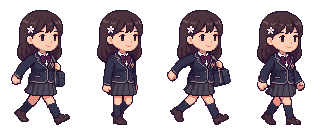
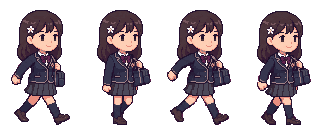
평일 판정 도트 연출: 여주 도트가 일정을 하다가 판정에 반응
- 칸마다 "하는 중"(약 0.4초, 그 일정 분류 동작) → 판정(대성공 · 성공 · 실수 반응)
- content/dot.ts 한 곳에서 동작별 속도·순서·대신할 동작 설정, ui/common/DotSprite.tsx (정수 배율, 픽셀 선명)
- 동작 그림이 아직 없으면 서 있는 한 장 + 효과로 흉내 (폴짝 · 끄덕 · 털썩 · 들썩 · 꾸벅) — dot/heroine/{동작}.png 만 넣으면 바뀐다
- 걷기 도트 가방 수정: 2 · 3 · 4번 모두 끈 잡은 손과 가방이 같은 자리에
- 이미지 인계서 ⑥ 코드 연결 갱신

Claude-Session: https://claude.ai/code/session_01GXWx7cv535L1kF6yCxY4sq

Changed region(s): [[0.9062, 0.4375, 0.9688, 0.75], [0.4062, 0.4375, 0.4688, 0.6875]]

diff --git a/src/ui/common/DotSprite.tsx b/src/ui/common/DotSprite.tsx
@@ -1,0 +1,84 @@
+/* =========================================================
+   도트 스프라이트 — 시트(칸 80×128 가로 이어 붙임)를 프레임 순서대로 넘긴다
+   - 그림이 없는 동작은 content/dot.ts 의 fallback 동작 + 코드 효과(폴짝·끄덕·털썩)로 대신
+   - 흐려지지 않게: 화면 점 기준 정수 배율로만 키운다 (height 는 원하는 대략의 키)
+   ========================================================= */
+import { useEffect, useMemo, useState } from 'react';
+import { DOT_ANIMS, DOT_CELL, type DotAnim } from '@/content/dot';
+import { dotImage } from '@/engine/assets';
+
+const reduced = () => typeof matchMedia !== 'undefined' && matchMedia('(prefers-reduced-motion: reduce)').matches;
+const sheetFrames: Record<string, number> = {};
+
+/** 그림이 있는 동작을 찾는다 — 없으면 대신할 동작 (효과는 처음 고른 동작 것) */
+export function resolveDot(char: string, anim: DotAnim): { anim: DotAnim; url: string; substitute: boolean } | null {
+  const seen = new Set<DotAnim>();
+  const walk = (a: DotAnim, sub: boolean): ReturnType<typeof resolveDot> => {
+    if (seen.has(a)) return null;
+    seen.add(a);
+    const url = dotImage(char, a);
+    if (url) return { anim: a, url, substitute: sub };
+    for (const f of DOT_ANIMS[a].fallback) { const r = walk(f, true); if (r) return r; }
+    return null;
+  };
+  return walk(anim, false);
+}
+
+interface Props {
+  char?: string;
+  anim: DotAnim;
+  /** 원하는 대략의 키 (CSS px) — 정수 배율로 맞춘다 */
+  height: number;
+  className?: string;
+}
+
+export function DotSprite({ char = 'heroine', anim, height, className }: Props) {
+  const r = useMemo(() => resolveDot(char, anim), [char, anim]);
+  const want = DOT_ANIMS[anim];
+  // 대신 쓰는 그림이면 서 있는 한 장 + 효과로 흉내 낸다 (효과가 없는 동작만 대신 그림을 그대로 움직인다 — 운동 → 제자리 걷기)
+  const play = r ? DOT_ANIMS[r.anim] : want;
+  const still = !!r?.substitute && !!want.effect;
+  const [frames, setFrames] = useState(() => (r ? sheetFrames[r.url] ?? 1 : 1));
+  const [i, setI] = useState(0);
+
+  useEffect(() => {
+    if (!r) return;
+    if (sheetFrames[r.url]) { setFrames(sheetFrames[r.url]); return; }
+    const img = new Image();
+    img.onload = () => { sheetFrames[r.url] = Math.max(1, Math.round(img.naturalWidth / DOT_CELL.w)); setFrames(sheetFrames[r.url]); };
+    img.src = r.url;
+  }, [r]);
+
+  const order = play.order ?? Array.from({ length: frames }, (_, k) => k);
+  useEffect(() => {
+    setI(0);
+    if (!r || still || reduced() || order.length < 2) return;
+    let k = 0;
+    const t = setInterval(() => {
+      k++;
+      if (!want.loop && k >= order.length) { clearInterval(t); return; }
+      setI(k % order.length);
+    }, 1000 / play.fps);
+    return () => clearInterval(t);
+  }, [r, still, frames, anim]); // eslint-disable-line react-hooks/exhaustive-deps
+
+  if (!r) return null;
+  // 화면 점(device pixel) 기준 정수 배율
+  const dpr = typeof window !== 'undefined' ? Math.max(1, window.devicePixelRatio || 1) : 1;
+  const s = Math.max(1, Math.round((height * dpr) / DOT_CELL.h)) / dpr;
+  const frame = still ? (DOT_ANIMS[r.anim].order?.[0] ?? 0) : order[Math.min(i, order.length - 1)] ?? 0;
+  const fx = r.substitute && !reduced() ? want.effect : undefined;
+  return (
+    <div
+      className={`dot${fx ? ` dot-${fx}` : ''}${className ? ` ${className}` : ''}`}
+      key={anim}
+      aria-hidden
+      style={{
+        width: DOT_CELL.w * s, height: DOT_CELL.h * s,
+        backgroundImage: `url("${r.url}")`,
+        backgroundSize: `${frames * DOT_CELL.w * s}px ${DOT_CELL.h * s}px`,
+        backgroundPosition: `${-frame * DOT_CELL.w * s}px 0`,
+      }}
+    />
+  );
+}

diff --git a/src/ui/overlays/LiveWeek.tsx b/src/ui/overlays/LiveWeek.tsx
@@ -2,11 +2,23 @@
    평일 실시간 진행 — 위: 오늘 장면 (그림 + 움직임 + 판정 도장 + 오른 것)
                      아래: 월~금 띠 (칸마다 결과 · 사건 아이콘)
    그림: src/assets/images/schedule/{일정id}.jpg · {id}_great.jpg · {id}_fail.jpg (없으면 갈래 색과 아이콘)
+   도트: 여주가 그 일정을 하다가(하는 중) 판정에 반응 — content/dot.ts · ui/common/DotSprite.tsx
    ========================================================= */
 import { useUI, ui, type LiveSlot, type LiveWeek as Week } from '@/store/ui';
 import { scheduleShot } from '@/engine/assets';
 import { CAT_LOOK, type Cat } from '@/content/rolls';
 import { SLOT_LABEL } from '@/engine/timetable';
+import type { DotAnim } from '@/content/dot';
+import { DotSprite, resolveDot } from '../common/DotSprite';
+
+/** 지금 칸에서 도트가 할 동작 — 하는 중이면 그 일정 분류, 판정이 나오면 반응 */
+function dotAnim(s: LiveSlot, school: string, slot: number): DotAnim {
+  if (s.state === 'wait') return slot === 0 && (school === 'doze' || school === 'sleep') ? 'doze' : ((s.cat as Cat) ?? 'study');
+  if (s.state === 'great') return 'great';
+  if (s.state === 'ok') return 'ok';
+  if (s.state === 'fail' || s.state === 'collapse' || s.state === 'broke') return 'fail';
+  return 'idle';
+}
 
 const STAMP: Record<string, [string, string] | undefined> = {
   great: ['대성공!', 'great'], ok: ['성공', 'ok'], fail: ['실수…', 'fail'],
@@ -34,8 +46,10 @@ function Today({ w }: { w: Week }) {
   const img = s.id ? scheduleShot(s.id, s.state) : undefined;
   const stamp = STAMP[s.state];
   const key = `${cur.day}-${cur.slot}-${s.state}`;
+  const anim = dotAnim(s, day.school, cur.slot);
+  const dot = !!resolveDot('heroine', anim);
   return (
-    <div className={`lw-today st-${s.state}`}>
+    <div className={`lw-today st-${s.state}${dot ? ' has-dot' : ''}`}>
       <div key={key} className={`lw-shot${img ? '' : ' none'}`} style={img ? { backgroundImage: `url("${img}")` } : { background: `linear-gradient(135deg, ${look.from}, ${look.to})` }}>
         {!img && <span className="lw-icon">{look.icon}</span>}
       </div>
@@ -44,6 +58,7 @@ function Today({ w }: { w: Week }) {
           <i key={i} style={{ left: `${8 + ((i * 37) % 84)}%`, animationDelay: `${(i * 0.23) % 1.4}s` }}>{s.state === 'great' ? '✦' : look.fx}</i>
         ))}
       </div>
+      {dot && <div className="lw-dot"><DotSprite key={key} anim={anim} height={118} /></div>}
       <div className="lw-cap">
         <span>{day.label}요일 · {SLOT_LABEL[cur.slot as 0 | 1]}{s.club ? ' · 동아리' : ''}{s.immerse ? ' · 몰입' : ''}</span>
         <b>{s.name || '빈칸'}</b>

diff --git a/src/content/dot.ts b/src/content/dot.ts
@@ -1,0 +1,43 @@
+/* =========================================================
+   도트 애니메이션 — 여주 SD 도트 (평일 판정 연출)
+   그림: src/assets/images/dot/{인물}/{동작}.png — 칸 80×128 을 가로로 이어 붙인 시트 (프레임 수 = 너비 ÷ 80)
+   만드는 법: docs/art/IMAGE_WORK.md ⑥ · scripts/dot_clean.py
+   그림이 없는 동작은 대신할 동작 + 코드 효과(폴짝·끄덕·털썩)로 흉내 낸다 → 그림을 넣으면 코드 수정 없이 바뀐다
+   ========================================================= */
+import type { Cat } from './rolls';
+
+/** 시트 한 칸 크기 (도트) */
+export const DOT_CELL = { w: 80, h: 128 } as const;
+
+export type DotAnim = 'walk' | 'idle' | Cat | 'great' | 'ok' | 'fail' | 'doze';
+
+export interface DotAnimDef {
+  /** 초당 프레임 */
+  fps: number;
+  /** 프레임 순서 (0부터). 없으면 0,1,2,… */
+  order?: number[];
+  /** 반복하나 (판정 반응은 한 번 하고 마지막 프레임에서 멈춘다) */
+  loop: boolean;
+  /** 그림이 없을 때 대신 쓸 동작 (차례로 찾는다) */
+  fallback: DotAnim[];
+  /** 대신 쓸 때 덧입히는 움직임 (CSS: dot-hop 폴짝 · dot-nod 끄덕 · dot-slump 털썩 · dot-bob 들썩 · dot-doze 꾸벅) */
+  effect?: 'hop' | 'nod' | 'slump' | 'bob' | 'doze';
+}
+
+export const DOT_ANIMS: Record<DotAnim, DotAnimDef> = {
+  // 걷기 — 2 → 4 → 3 → 4 (1번은 쓰지 않음, 사용자가 고른 순서)
+  walk:   { fps: 7, order: [1, 3, 2, 3], loop: true, fallback: [] },
+  idle:   { fps: 3, loop: true, fallback: ['walk'], effect: 'bob' },
+  // 일정 분류별 — 하는 동안 반복 (src/content/rolls.ts 의 cat)
+  study:  { fps: 4, loop: true, fallback: ['idle'], effect: 'bob' },
+  art:    { fps: 6, loop: true, fallback: ['idle'], effect: 'bob' },
+  work:   { fps: 5, loop: true, fallback: ['idle'], effect: 'bob' },
+  body:   { fps: 8, loop: true, fallback: ['walk'] },   // 그림이 없으면 제자리 걷기로
+  rest:   { fps: 2, loop: true, fallback: ['idle'], effect: 'doze' },
+  social: { fps: 5, loop: true, fallback: ['idle'], effect: 'bob' },
+  doze:   { fps: 2, loop: true, fallback: ['rest', 'idle'], effect: 'doze' },
+  // 판정 반응 — 한 번
+  great:  { fps: 10, loop: false, fallback: ['idle'], effect: 'hop' },
+  ok:     { fps: 6, loop: false, fallback: ['idle'], effect: 'nod' },
+  fail:   { fps: 7, loop: false, fallback: ['idle'], effect: 'slump' },
+};

diff --git a/src/styles/screens.css b/src/styles/screens.css
@@ -599,3 +599,22 @@ code { font-size: 11px; padding: 1px 4px; border-radius: 4px; background: var(--
 .inv-where button.on { background: #e0607e; border-color: #e0607e; color: #fff; }
 .inv-where button i { font-style: normal; color: #e0a03c; margin-right: 2px; }
 .inv-where button.on i { color: #fff; }
+
+/* ---------- 도트 스프라이트 (ui/common/DotSprite.tsx) ---------- */
+.dot { background-repeat: no-repeat; image-rendering: pixelated; image-rendering: crisp-edges; transform-origin: 50% 100%; pointer-events: none; }
+/* 그림이 아직 없는 반응을 흉내 내는 효과 */
+.dot-hop { animation: dothop .5s cubic-bezier(.3, .7, .4, 1) 2; }
+.dot-nod { animation: dotnod .45s ease-in-out 2; }
+.dot-slump { animation: dotslump .6s ease-out both; }
+.dot-bob { animation: dotbob .7s ease-in-out infinite; }
+.dot-doze { animation: dotdoze 1.6s ease-in-out infinite; }
+@keyframes dothop { 0%, 100% { transform: translateY(0) scale(1, 1); } 15% { transform: translateY(0) scale(1.06, .92); } 50% { transform: translateY(-18%) scale(.96, 1.05); } 85% { transform: translateY(0) scale(1.05, .94); } }
+@keyframes dotnod { 50% { transform: translateY(3%) scale(1, .97); } }
+@keyframes dotslump { 0% { transform: none; filter: none; } 40% { transform: translateY(2%) rotate(-4deg) scale(1.02, .95); } 100% { transform: translateY(6%) rotate(-7deg) scale(1, .9); filter: saturate(.6) brightness(.9); } }
+@keyframes dotbob { 50% { transform: translateY(-2%); } }
+@keyframes dotdoze { 0%, 100% { transform: rotate(0); } 45% { transform: rotate(3deg) translateY(2%); } 55% { transform: rotate(3deg) translateY(2%); } }
+@media (prefers-reduced-motion: reduce) { .dot { animation: none !important; } }
+/* 평일 진행 — 오늘 장면 칸의 여주 도트 (아래 왼쪽). 글·오른 것은 도트 오른쪽으로 비킨다 */
+.lw-dot { position: absolute; left: 6%; bottom: 2px; filter: drop-shadow(0 3px 2px rgba(0, 0, 0, .35)); }
+.lw-today.has-dot .lw-line { padding-left: 38%; }
+.lw-today.has-dot .lw-gains { left: 38%; max-width: 58%; bottom: 54px; }

diff --git a/src/engine/weekday.ts b/src/engine/weekday.ts
@@ -209,6 +209,11 @@ export async function runWeekdays(st: GameState, T: Turn, week: number, incident
     days.push(r);
     ui.weekPatch(w => { w.days[day] = { ...w.days[day], school: r.school }; w.cur = { day, slot: 0 }; });
     for (const s of [0, 1]) {
+      // 하는 중 — 도트가 그 일정을 잠깐 하다가 (판정은 아직)
+      if (r.slots[s].id && !['skip', 'empty', 'broke', 'collapse'].includes(r.slots[s].state)) {
+        ui.weekPatch(w => { w.cur = { day, slot: s }; });
+        await ui.pace(R().doing);
+      }
       ui.weekPatch(w => { w.cur = { day, slot: s }; w.days[day] = { ...w.days[day], slots: w.days[day].slots.map((x, k) => (k === s ? { ...x, ...r.slots[s] } : x)) }; });
       refresh();
       await ui.pace(r.slots[s].state === 'great' || r.slots[s].state === 'fail' ? 850 : 450);

diff --git a/src/config/balance.ts b/src/config/balance.ts
@@ -51,6 +51,7 @@ export const BALANCE = {
     rhythm: { great: 0.04, stress: -0.5 },                         // 하루에 할 일 + 쉬는 일 → 그날 스트레스 −, 다음 날 대성공 ↑
     restGreat: 0.2, restBonus: { hp: 3, stress: -2 },            // 쉬는 일정은 실수 없음, 가끔 꿀잠
     failStress: 3, greatStress: -1,
+    doing: 420,            // 판정 전 "하는 중" 보여 주는 시간(ms) — 도트가 그 일정을 하는 모습
   },
   /** 평일 사건 — [한 주 기본 횟수, 한 번 더 일어날 확률] */
   dayEvents: { school: [1, 0.4] as [number, number], choice: [1, 0.3] as [number, number] },

diff --git a/src/engine/assets.ts b/src/engine/assets.ts
@@ -40,3 +40,5 @@ export const scheduleShot = (id: string, state: string) =>
   (state === 'great' || state === 'fail' ? byKey[`schedule/${id}_${state}`] : undefined) ?? byKey[`schedule/${id}`];
 export const uiImage = (key: string) => byKey[`ui/${key}`];
 export const photoImage = (id: string) => byKey[`photo/${id}`];
+/** 도트 시트 — dot/{인물}/{동작} (칸 80×128 가로 이어 붙임, content/dot.ts) */
+export const dotImage = (char: string, anim: string) => byKey[`dot/${char}/${anim}`];

diff --git a/docs/art/IMAGE_WORK.md b/docs/art/IMAGE_WORK.md
@@ -220,7 +220,7 @@ Avoid: people, faces, text, readable signs, logos, pink cherry blossoms, oversat
 - 외형: 어깨 길이 짙은 갈색 머리 + **흰 배꽃 머리핀**, 네이비 블레이저(연회색 테두리, 왼쪽 가슴 금색 작은 문장) · 흰 셔츠 · 버건디 리본 · 차콜 주름치마 · 네이비 무릎양말 · 갈색 로퍼 · 네이비 가방
 - 크기: 도트 약 67×117 (34색). 시트는 **칸 80×128** 에 맞춰 가로로 이어 붙임
 - 걷기 순서는 **2 → 4 → 3 → 4** (1번 안 씀) — 사용자가 고름
-- **고칠 것 (사용자 지적):** 팔과 가방이 어색하다. 특히 가방이 1·3번엔 보이고 2·4번엔 안 보여서 깜빡인다 → 픽셀을 고쳐 네 장 모두 가방이 같은 자리에 보이게, 팔 흔들림을 자연스럽게. 고친 뒤 사용자에게 보여 주고 확인
+- **가방은 고쳤다 (2026-10-22):** 2 · 3 · 4번 모두 오른손이 끈을 잡고 가방이 같은 자리에. 팔 흔들림이 더 어색하다고 하면 그때 다시 손볼 것
 - 미리보기 페이지(이 세션이 만든 비공개 아티팩트): https://claude.ai/artifact/PYm3pknkwVFHcFUKmbCB3f — 다른 세션에서 고치려면 먼저 `read`
 
 **만들 동작 (평일 일정은 6가지 분류로 묶여 있어서 분류별로 하나씩)**
@@ -265,14 +265,13 @@ python3 scripts/dot_clean.py 업로드.png src/assets/images/dot/heroine/great.p
 - `--preview` 로 4배 확대본을 만들어 눈으로 확인하고 사용자에게 보여 준다. 칸을 넘친다고 나오면 `--canvas 96x144` 처럼 키우되, **모든 동작이 같은 칸 크기**여야 하니 그때는 기존 시트도 다시 만든다
 - 원본은 `docs/art/dot/heroine_{동작}_source.png` 로 같이 보관 (나중에 다시 정리할 수 있게)
 
-**코드 연결 (아직 없음 — 도트가 2~3개 들어오면 연결)**
-- 넣을 곳: `src/ui/overlays/LiveWeek.tsx` 의 "오늘 장면" 칸 (`.lw-today`, 16:9). 지금은 일정 그림(`scheduleShot`) 또는 색 그라데이션 + 아이콘이 나온다
-- 동작: 그 칸 일정의 분류 동작을 반복 → 판정이 나오는 순간 `great` / `ok` / `fail` 을 한 번 재생하고 마지막 프레임에서 멈춤 (도장 「대성공!」「성공」「실수…」와 같은 타이밍). 수업 졸음(`doze`) · 쓰러짐은 그 상태 동작
-- 표시: 칸 아래 왼쪽, 도트 키가 칸 높이의 약 60%. **정수 배율**로만 키우고 `image-rendering: pixelated` (흐려지지 않게). 걷기처럼 시트를 칸 80×128 단위로 잘라 쓰고, 프레임 수 = 시트 너비 ÷ 80
-- 동작별 속도 · 순서는 한 곳(예: `src/content/dot.ts`)에 모은다 — 걷기 `order: [1, 3, 2, 3]` (0부터 센 번호), 기본 6~8 FPS, 반응은 조금 빠르게
-- `prefers-reduced-motion` 이면 반복 동작은 멈추고 첫 프레임만, 빠르게 넘기기(탭)면 바로 반응 마지막 프레임으로
-- 그림 없는 동작은 지금처럼 아이콘으로 (그림이 하나도 없어도 게임이 돌아가야 함)
-- 연결 후 `npm test` · `npm run build` · 폰 크기 캡처로 확인
+**코드 연결 — 됐다 (2026-10-22)**
+- 설정 한 곳: `src/content/dot.ts` — 동작마다 속도 · 순서 · 반복 여부 · **그림이 없을 때 대신할 동작과 효과**
+- 그리는 곳: `src/ui/common/DotSprite.tsx` (화면 점 기준 정수 배율, `image-rendering: pixelated`) · 그림 찾기 `dotImage()` (`src/engine/assets.ts`)
+- 평일 진행 화면(`src/ui/overlays/LiveWeek.tsx`): 칸마다 **하는 중**(그 일정 분류 동작, 약 0.4초 — `balance.ts` `roll.doing`) → **판정**(great / ok / fail 한 번 재생 후 마지막 프레임에서 멈춤). 실수 · 돈 없음 · 쓰러짐은 `fail`, 빠짐 · 빈칸은 `idle`, 수업에서 졸았던 날 첫 칸은 `doze`
+- **지금은 걷기 그림만 있어서** 나머지는 서 있는 한 장 + 코드 효과로 흉내 낸다 (대성공 폴짝 · 성공 끄덕 · 실수 털썩 · 하는 중 들썩 · 휴식 꾸벅, 운동은 제자리 걷기). **`dot/heroine/{동작}.png` 를 넣는 순간 코드 수정 없이 진짜 동작으로 바뀐다**
+- 새 동작을 넣은 뒤: `npm run build` → 평일 진행 화면 캡처로 확인 (속도가 어색하면 `dot.ts` 의 fps 만 고친다)
+- 걷기 시트는 2026-10-22 에 가방을 고쳤다: 3번의 가방 + 끈 잡은 손을 2 · 4번에 옮겨서 세 장(2 · 3 · 4) 모두 같은 자리에 가방이 보인다. 원본 정리본과 다르니 `dot_clean.py` 로 다시 만들면 이 수정이 사라진다 — 다시 만들 일이 있으면 가방도 다시 맞출 것
 
 ### ⑦ 보류 — 지금은 하지 않는다
 - **캐릭터 스탠딩 · 표정 · 프로필 · 인물 이벤트 CG:** 제미나이로 얼굴을 매번 같게 뽑는 데 실패해서 사용자가 보류함 ("사람은 내가 못하겠고"). 남주 플롯도 한태준 말고는 다시 쓰는 중이라 설정 확정 뒤에 다시 다룬다. 사용자가 먼저 꺼내면 그때 이어서
